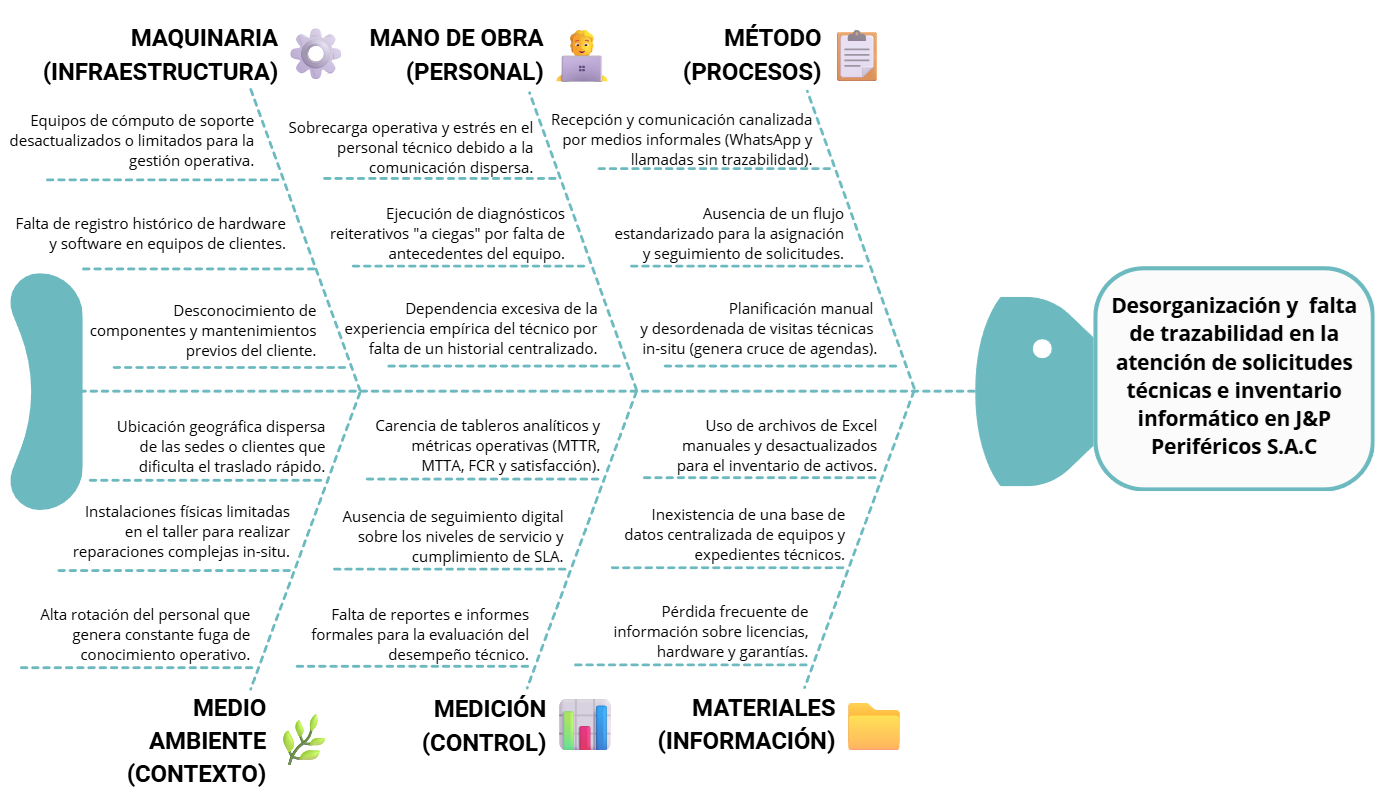
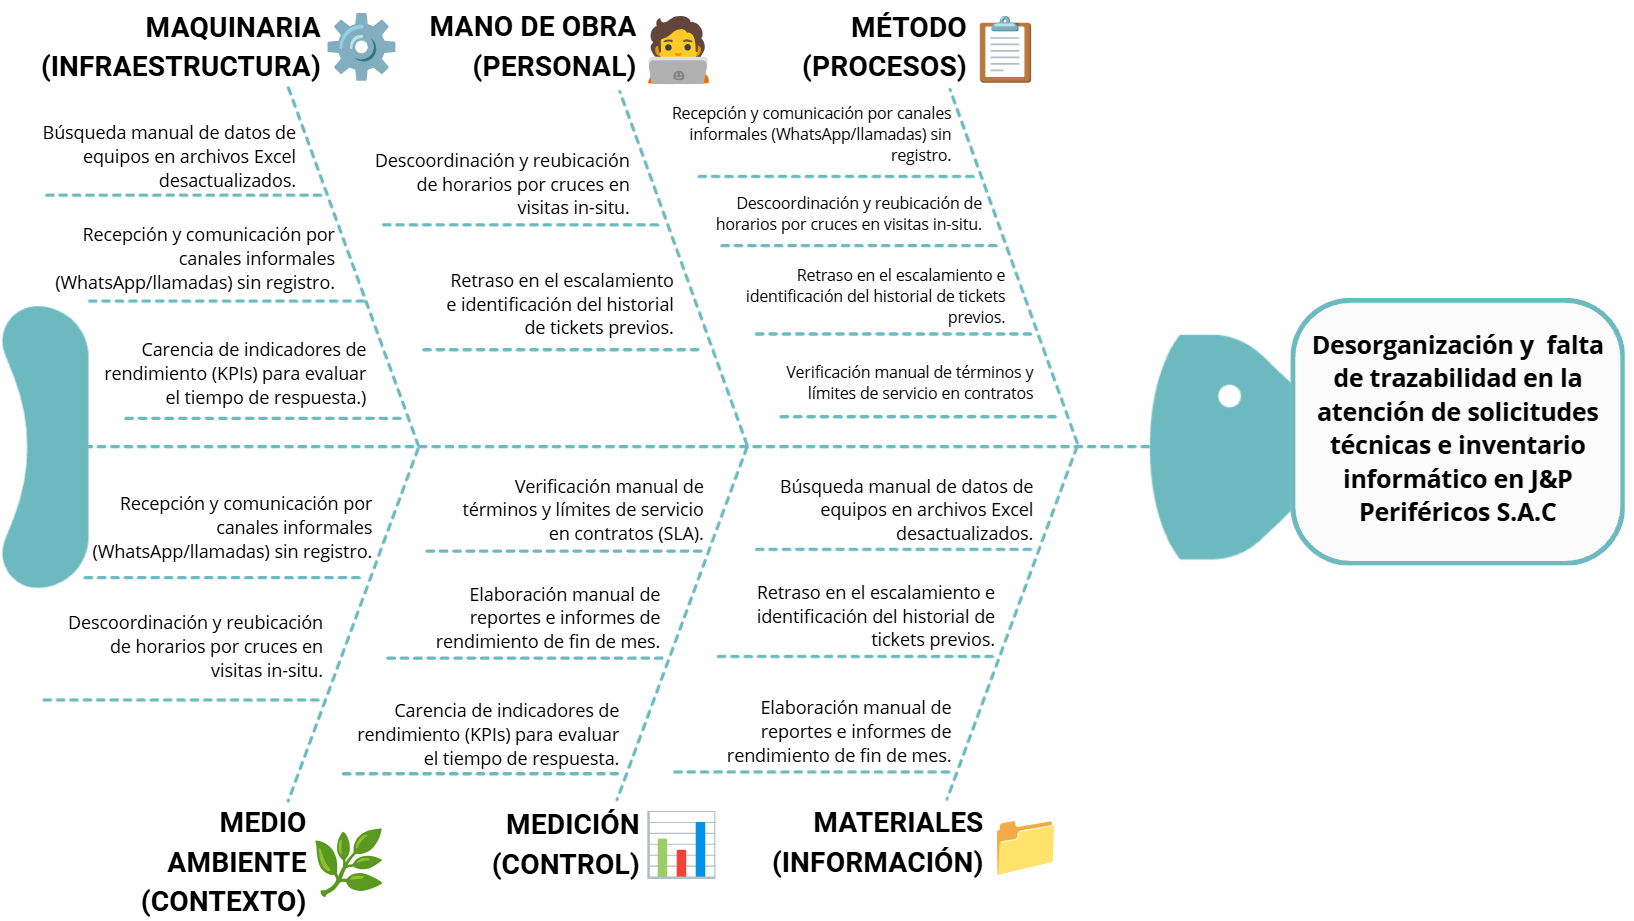
Correcciones de las observaciones hechas

diff --git a/Estructura/capitulo3.tex b/Estructura/capitulo3.tex
@@ -162,40 +162,7 @@ De acuerdo con la valoración obtenida en las encuestas, se procesaron los datos
 
 \subsection{Análisis cualitativo y cuantitativo}
 
-\subsubsection{Causa CA2: Recepción y comunicación por canales informales (WhatsApp/llamadas) sin registro}
-\noindent \textbf{Análisis cualitativo:} La atención de incidentes mediante mensajes de WhatsApp y llamadas telefónicas directas impide registrar de forma oficial el requerimiento, provocando que las solicitudes queden traspapeladas o dispersas en los dispositivos móviles del personal. Esto genera confusión sobre qué técnico atendió a cada cliente, duplicidad en la comunicación y falta de seguimiento formal, ocasionando demoras considerables en el inicio de la atención y una constante pérdida de la trazabilidad operativa.	\\
-
-\noindent \textbf{Análisis cuantitativo:} 
-Durante el período de mayo a septiembre de 2026 se registraron 149 solicitudes gestionadas de manera informal, lo que representa un promedio mensual del 38\% del total de atenciones. Cada atención informal genera un tiempo improductivo promedio de 30 minutos por la falta de unificación de canales. Considerando una plantilla de 3 técnicos operativos con un costo hora-hombre valorizado en S/. 25.00, las horas perdidas acumuladas ascienden a aproximadamente 74.5 horas por semestralidad, lo que se traduce en una \textbf{pérdida económica operativa estimada de S/. 1,862.50 semestrales} solo por ineficiencia en la recepción de solicitudes.
-
-\begin{table}[H]
-\small
-\renewcommand{\arraystretch}{1.15}
-\centering
-\caption{Análisis cuantitativo y económico de solicitudes por canales informales (Causa 1)}
-\label{tab:cuantitativo_causa1}
-\vspace{0.4em}
-
-\begin{tabularx}{\linewidth}{X >{\centering\arraybackslash}p{2.8cm} >{\centering\arraybackslash}p{2.8cm} >{\centering\arraybackslash}p{1.8cm} >{\centering\arraybackslash}p{2.2cm}}
-\hline
-\textbf{Mes} & \textbf{Solicitudes informales} & \textbf{Total atenciones} & \textbf{Porcentaje} & \textbf{Pérdida estimada (S/.)} \\
-\hline
-May-26 & 26 & 70 & 37\% & S/. 325.00 \\
-Jun-26 & 32 & 85 & 38\% & S/. 400.00 \\
-Jul-26 & 37 & 95 & 39\% & S/. 462.50 \\
-Aug-26 & 24 & 65 & 37\% & S/. 300.00 \\
-Sep-26 & 30 & 80 & 38\% & S/. 375.00 \\
-\hline
-\textbf{Total} & \textbf{149} & \textbf{395} & \textbf{38\% (Prom.)} & \textbf{S/. 1,862.50} \\
-\hline
-\end{tabularx}
-
-\vspace{0.3em}
-\raggedright
-{\small \textit{Nota.} Consolidado mensual de incidencia e impacto económico por canales informales.}
-\end{table}
-
-\vspace{0.4cm}
+\subsection{Análisis cualitativo y cuantitativo}
 
 \subsubsection{Causa CA1: Búsqueda manual de datos de equipos en archivos Excel desactualizados}
 \noindent \textbf{Análisis cualitativo:} El inventario de activos TI y el historial de mantenimiento de los equipos de cómputo por cliente se administran mediante hojas de cálculo en Excel. Al no estar centralizada ni integrada con las solicitudes de atención, los técnicos deben realizar búsquedas manuales de especificaciones, garantías y mantenimientos previos antes o durante cada atención. Esto genera pérdida de tiempo operativo, errores en los diagnósticos y riesgo constante de trabajar con información obsoleta o duplicada. \\
@@ -232,6 +199,41 @@ Sep-26 & 21 & 80 & 26\% & S/. 218.70 \\
 
 \vspace{0.4cm}
 
+\subsubsection{Causa CA2: Recepción y comunicación por canales informales (WhatsApp/llamadas) sin registro}
+\noindent \textbf{Análisis cualitativo:} La atención de incidentes mediante mensajes de WhatsApp y llamadas telefónicas directas impide registrar de forma oficial el requerimiento, provocando que las solicitudes queden traspapeladas o dispersas en los dispositivos móviles del personal. Esto genera confusión sobre qué técnico atendió a cada cliente, duplicidad en la comunicación y falta de seguimiento formal, ocasionando demoras considerables en el inicio de la atención y una constante pérdida de la trazabilidad operativa.	\\
+
+\noindent \textbf{Análisis cuantitativo:} 
+Durante el período de mayo a septiembre de 2026 se registraron 149 solicitudes gestionadas de manera informal, lo que representa un promedio mensual del 38\% del total de atenciones. Cada atención informal genera un tiempo improductivo promedio de 30 minutos por la falta de unificación de canales. Considerando una plantilla de 3 técnicos operativos con un costo hora-hombre valorizado en S/. 25.00, las horas perdidas acumuladas ascienden a aproximadamente 74.5 horas por semestralidad, lo que se traduce en una \textbf{pérdida económica operativa estimada de S/. 1,862.50 semestrales} solo por ineficiencia en la recepción de solicitudes.
+
+\begin{table}[H]
+\small
+\renewcommand{\arraystretch}{1.15}
+\centering
+\caption{Análisis cuantitativo y económico de solicitudes por canales informales (Causa 1)}
+\label{tab:cuantitativo_causa1}
+\vspace{0.4em}
+
+\begin{tabularx}{\linewidth}{X >{\centering\arraybackslash}p{2.8cm} >{\centering\arraybackslash}p{2.8cm} >{\centering\arraybackslash}p{1.8cm} >{\centering\arraybackslash}p{2.2cm}}
+\hline
+\textbf{Mes} & \textbf{Solicitudes informales} & \textbf{Total atenciones} & \textbf{Porcentaje} & \textbf{Pérdida estimada (S/.)} \\
+\hline
+May-26 & 26 & 70 & 37\% & S/. 325.00 \\
+Jun-26 & 32 & 85 & 38\% & S/. 400.00 \\
+Jul-26 & 37 & 95 & 39\% & S/. 462.50 \\
+Aug-26 & 24 & 65 & 37\% & S/. 300.00 \\
+Sep-26 & 30 & 80 & 38\% & S/. 375.00 \\
+\hline
+\textbf{Total} & \textbf{149} & \textbf{395} & \textbf{38\% (Prom.)} & \textbf{S/. 1,862.50} \\
+\hline
+\end{tabularx}
+
+\vspace{0.3em}
+\raggedright
+{\small \textit{Nota.} Consolidado mensual de incidencia e impacto económico por canales informales.}
+\end{table}
+
+\vspace{0.4cm}
+
 \subsubsection{Causa CA3: Descoordinación y reubicación de horarios por cruces en visitas in-situ}
 \noindent \textbf{Análisis cualitativo:} La programación de visitas presenciales y soporte técnico in-situ en las sedes de los clientes se gestiona de manera manual y sin un calendario centralizado de disponibilidad técnica. Esto provoca cruces de agenda entre los técnicos asignados, reprogramaciones de última hora, tiempos muertos por traslados no optimizados y descoordinación con los horarios de atención de los clientes, lo que afecta la puntualidad y genera insatisfacción en el servicio. \\
 
@@ -264,3 +266,38 @@ Sep-26 & 16 & 80 & 20\% & S/. 133.30 \\
 \raggedright
 {\small \textit{Nota.} Distribución mensual de incidencias y pérdida económica por descoordinación en agenda presencial.}
 \end{table}
+
+\subsubsection{Causa CA4: Retraso en el escalamiento e identificación del historial de tickets previos}
+
+\noindent \textbf{Análisis cualitativo:} La falta de un flujo estandarizado para la asignación, seguimiento y escalamiento de tickets impide identificar el historial previo de cada incidencia, generando retrasos en la resolución y pérdida de trazabilidad operativa. Al no existir un registro centralizado de las atenciones anteriores, los técnicos deben re-diagnosticar casos ya atendidos, duplicando esfuerzos y prolongando los tiempos de resolución. \
+
+\noindent \textbf{Análisis cuantitativo:}
+Esta causa obtuvo un puntaje de 37 en la encuesta de priorización de causas raíz (CA4, tabla \ref{tab:encuesta_causas}), lo que la ubica como la cuarta causa en impacto dentro del diagnóstico del área de soporte técnico de J\&P Periféricos S.A.C.
+
+\vspace{0.4cm}
+
+\subsubsection{Causa CA5: Verificación manual de términos y límites de servicio en contratos (SLA)}
+
+\noindent \textbf{Análisis cualitativo:} La verificación de la vigencia de los planes contratados, la cantidad máxima de equipos cubiertos y los tiempos máximos de atención comprometidos se realiza de forma manual y fragmentada, dificultando priorizar oportunamente las incidencias críticas y comprometiendo el cumplimiento de los Acuerdos de Nivel de Servicio (SLA). Esta carencia de control automatizado provoca que se brinde soporte a activos fuera de cobertura y afecte la formalidad del servicio. \
+
+\noindent \textbf{Análisis cuantitativo:}
+Esta causa obtuvo un puntaje de 34 en la encuesta de priorización de causas raíz (CA5, tabla \ref{tab:encuesta_causas}), ubicándose como la quinta causa en impacto dentro del diagnóstico del área de soporte técnico.
+
+\vspace{0.4cm}
+
+\subsubsection{Causa CA6: Elaboración manual de reportes e informes de rendimiento de fin de mes}
+
+\noindent \textbf{Análisis cualitativo:} La elaboración manual de reportes e informes de rendimiento de fin de mes sobrecarga la operación del área técnica y limita la toma de decisiones basada en datos. Al no existir tableros analíticos automatizados, el personal técnico debe consolidar manualmente la información de atenciones, tiempos y cumplimiento de SLA, consumiendo tiempo que podría destinarse a la atención de incidencias. \
+
+\noindent \textbf{Análisis cuantitativo:}
+Esta causa obtuvo un puntaje de 29 en la encuesta de priorización de causas raíz (CA6, tabla \ref{tab:encuesta_causas}), ubicándose como la sexta causa en impacto dentro del diagnóstico del área de soporte técnico.
+
+\vspace{0.4cm}
+
+\subsubsection{Causa CA7: Carencia de indicadores de rendimiento (KPIs) para evaluar el tiempo de respuesta}
+
+\noindent \textbf{Análisis cualitativo:} La falta de un sistema con backend robusto y modular que centralice las reglas de negocio impide la monitorización en tiempo real de los indicadores de rendimiento y la validación automatizada de contratos, sobrecargando la operación y comprometiendo la calidad del servicio técnico. Sin KPIs como MTTA, MTTR, FCR y CSAT, la gerencia no puede evaluar objetivamente el desempeño del equipo técnico ni el cumplimiento de los SLA. \
+
+\noindent \textbf{Análisis cuantitativo:}
+Esta causa obtuvo un puntaje de 23 en la encuesta de priorización de causas raíz (CA7, tabla \ref{tab:encuesta_causas}), ubicándose como la séptima causa en impacto dentro del diagnóstico del área de soporte técnico.
+

diff --git a/Estructura/capitulo6.tex b/Estructura/capitulo6.tex
@@ -19,7 +19,7 @@ Para evaluar la rentabilidad financiera y la viabilidad económica del proyecto 
 
 \subsection{Identificación de la Pérdida Económica}
 
-Tal como se determinó en el análisis cuantitativo del Capítulo 3.4, la empresa J\&P Periféricos S.A.C. venía experimentando pérdidas económicas recurrentes a causa de las deficiencias operativas en el área de soporte técnico. Para cuantificar este impacto, se desglosan las tres causas principales identificadas en la Tabla 1 y su estimación económica mensual y anual:
+Tal como se determinó en el análisis cuantitativo del Capítulo 3 (sección 3.4.3), la empresa J\&P Periféricos S.A.C. venía experimentando pérdidas económicas recurrentes a causa de las deficiencias operativas en el área de soporte técnico. Para cuantificar este impacto, se desglosan las tres causas principales identificadas en la Tabla 1 y su estimación económica mensual y anual:
 
 \vspace{0.3cm}
 
@@ -47,17 +47,17 @@ Tal como se determinó en el análisis cuantitativo del Capítulo 3.4, la empres
 \multicolumn{4}{@{}p{\textwidth}}{\small \textit{Nota.} Lista de causas principales identificadas y su respectiva estimación de pérdida económica mensual en el área de soporte técnico.} \\
 \endlastfoot
 
-\textbf{Causa 1:} Recepción y comunicación por canales informales (WhatsApp / Llamadas). & 
-- Tiempos improductivos.\newline - Solicitudes traspapeladas por falta de un canal centralizado. & 
-Operativa / Horas-Hombre & 
-S/ 372.50 \\[10pt]
-
-\textbf{Causa 2:} Búsqueda manual de datos de equipos en archivos Excel desactualizados. & 
+\textbf{CA1:} Búsqueda manual de datos de equipos en archivos Excel desactualizados. & 
 - Demoras en la localización de historiales.\newline - Falta de expedientes técnicos de equipos. & 
 Operativa / Horas-Hombre & 
 S/ 214.58 \\[10pt]
 
-\textbf{Causa 3:} Descoordinación y reubicación de horarios por cruces en visitas in-situ. & 
+\textbf{CA2:} Recepción y comunicación por canales informales (WhatsApp / Llamadas). & 
+- Tiempos improductivos.\newline - Solicitudes traspapeladas por falta de un canal centralizado. & 
+Operativa / Horas-Hombre & 
+S/ 372.50 \\[10pt]
+
+\textbf{CA3:} Descoordinación y reubicación de horarios por cruces en visitas in-situ. & 
 - Tiempos muertos y reprocesos.\newline - Traslados duplicados en atenciones presenciales. & 
 Operativa / Logística & 
 S/ 135.00 \\ 
@@ -95,9 +95,9 @@ Proyectando las pérdidas operativas mensuales al período de un año (12 meses)
 \multicolumn{3}{@{}p{\textwidth}}{\small \textit{Nota.} Proyección de las pérdidas económicas anuales derivadas de las ineficiencias operativas del área de soporte técnico.} \\
 \endlastfoot
 
-Causa 1: Recepción por canales informales sin registro. & 12 meses & S/ 4,470.00 \\
-Causa 2: Búsqueda manual de activos en archivos Excel. & 12 meses & S/ 2,574.96 \\
-Causa 3: Descoordinación y cruces en visitas presenciales in-situ. & 12 meses & S/ 1,620.00 \\ 
+CA1: Búsqueda manual de activos en archivos Excel. & 12 meses & S/ 2,574.96 \\
+CA2: Recepción por canales informales sin registro. & 12 meses & S/ 4,470.00 \\
+CA3: Descoordinación y cruces en visitas presenciales in-situ. & 12 meses & S/ 1,620.00 \\ 
 \midrule
 \textbf{Total General de Pérdida Económica Anual} & \textbf{12 meses} & \textbf{S/ 8,664.96} \\
 \end{longtable}

diff --git a/Estructura/capitulo4.tex b/Estructura/capitulo4.tex
@@ -164,6 +164,7 @@ Esta fase inicial comprende la recopilación de especificaciones, el diseño con
 \multicolumn{3}{@{}p{\textwidth}}{\small \textit{Nota.} Cronograma y entregables detallados para la fase de análisis y modelado.} \\
 \endlastfoot
 
+TR00 - Planificación y gestión del proyecto & Planificación, ceremonias de sprint, revisiones y documentación transversal. & 14 días \\
 TR01 - Alcance y Problemática & Definición del alcance del proyecto y problemática de trazabilidad TI. & 4 días \\
 TR02 - Modelado de Negocio & Modelado del flujo de negocio y matriz de permisos por rol. & 5 días \\
 TR03 - Requisitos & Redacción de especificación de Requisitos Funcionales y No Funcionales. & 5 días \\
@@ -172,6 +173,7 @@ TR05 - Análisis Hoja de Vida & Análisis de requerimientos para el módulo de H
 TR06 - Matriz CRUD & Elaboración de matriz CRUD de accesos y permisos por rol. & 4 días \\
 TR07 - Diagramas UML & Diseño de diagramas UML y especificaciones de Casos de Uso. & 6 días \\
 TR08 - Esquema Relacional & Creación del esquema relacional y enums en \texttt{schema.prisma}. & 4 días \\
+\textbf{Total Fase 1} & & \textbf{50 días} \\
 \end{longtable}
 \endgroup
 
@@ -268,6 +270,7 @@ TR14 - Gestión SLA & Implementación de gestión backend de Planes y Acuerdos d
 TR15 - Lógica Inventario ITAM & Desarrollo de lógica backend de Inventario ITAM y Hoja de Vida de Activos. & 6 días \\
 TR16 - Control de Software & Implementación de gestión backend de Software y Control de Licencias. & 5 días \\
 TR17 - Ciclo de Vida Ticket & Desarrollo del ciclo de vida del Ticket (estado pendiente y asignación). & 6 días \\
+\textbf{Total Fase 2} & & \textbf{48 días} \\
 \end{longtable}
 \endgroup
 
@@ -357,6 +360,7 @@ Esta fase comprende el desarrollo de la lógica compleja de negocio, integrando 
 
 TR18 - Citas Presenciales & Desarrollo del backend de derivación y gestión de Citas Presenciales. & 5 días \\
 TR19 - WebSockets y Redis & Implementación de WebSockets con Redis para Chat y Endpoints de Dashboard. & 6 días \\
+\textbf{Total Fase 3} & & \textbf{11 días} \\
 \end{longtable}
 \endgroup
 
@@ -426,6 +430,7 @@ TR20 - Configuración UI & Configuración de estructura modular frontend, Tailwi
 TR21 - Pantallas Base Frontend & Desarrollo de pantallas frontend de Login, Usuarios y Zonas con \textit{shadcn/ui}. & 6 días \\
 TR22 - Jerarquía Organizacional & Desarrollo de interfaces modulares para la Jerarquía Organizacional. & 5 días \\
 TR23 - Módulos Operativos & Pantallas de Inventario ITAM, Tickets, Cronograma de Citas, Chat y Dashboard. & 7 días \\
+\textbf{Total Fase 4} & & \textbf{22 días} \\
 \end{longtable}
 \endgroup
 
@@ -517,6 +522,7 @@ TR24 - Documentación Swagger & Documentación de endpoints y DTOs del Backend u
 TR25 - Pruebas Unitarias Jest & Implementación y ejecución de Pruebas Unitarias en el Backend con Jest. & 5 días \\
 TR26 - Módulo de Exportación & Desarrollo de módulo de exportación de documentos PDF. & 5 días \\
 TR27 - Despliegue en Producción & Subida de base de datos, backend y frontend al servidor de producción. & 4 días \\
+\textbf{Total Fase 5} & & \textbf{18 días} \\
 \end{longtable}
 \endgroup
 

diff --git a/main.tex b/main.tex
@@ -3,6 +3,7 @@
 
 % Idioma y Tipografía
 \usepackage[spanish, es-tabla]{babel}
+
 \usepackage{mathptmx} % Times New Roman compatible con pdfLaTeX
 
 % Márgenes Estándar APA (2.54 cm / 1 pulgada)

diff --git a/docs/ishikawa-pareto-actualizacion.md b/docs/ishikawa-pareto-actualizacion.md
@@ -1,0 +1,61 @@
+# Actualización de imágenes: Ishikawa y Pareto
+
+La lista maestra de causas (CA1–CA7) es idéntica en `Estructura/capitulo2.tex` y `Estructura/capitulo3.tex`. Usa estos datos para actualizar visualmente `img/diagrama_ishikawa.png`, `img/diagrama_pareto_por_fenomeno.png` e `img/diagrama_problema.png`.
+
+## 1) Diagrama de Ishikawa (`img/diagrama_ishikawa.png`) — ramas 6M con espinas
+
+### Métodos (procesos y procedimientos)
+- Espina: Recepción y comunicación por canales informales (WhatsApp/llamadas) sin registro. (CA2)
+- Espina: Descoordinación y reubicación de horarios por cruces en visitas in-situ. (CA3)
+- Espina: Retraso en el escalamiento e identificación del historial de tickets previos. (CA4)
+- Espina: Verificación manual de términos y límites de servicio en contratos (SLA). (CA5)
+
+### Mano de Obra (personal y coordinación)
+- Espina: Descoordinación y reubicación de horarios por cruces en visitas in-situ. (CA3)
+- Espina: Retraso en el escalamiento e identificación del historial de tickets previos. (CA4)
+
+### Maquinaria/Tecnología (sistemas y herramientas)
+- Espina: Búsqueda manual de datos de equipos en archivos Excel desactualizados. (CA1)
+- Espina: Recepción y comunicación por canales informales (WhatsApp/llamadas) sin registro. (CA2)
+- Espina: Carencia de indicadores de rendimiento (KPIs) para evaluar el tiempo de respuesta. (CA7)
+
+### Materiales/Información (datos y registros)
+- Espina: Búsqueda manual de datos de equipos en archivos Excel desactualizados. (CA1)
+- Espina: Retraso en el escalamiento e identificación del historial de tickets previos. (CA4)
+- Espina: Elaboración manual de reportes e informes de rendimiento de fin de mes. (CA6)
+
+### Medio Ambiente (entorno organizacional y de servicio)
+- Espina: Recepción y comunicación por canales informales (WhatsApp/llamadas) sin registro. (CA2)
+- Espina: Descoordinación y reubicación de horarios por cruces en visitas in-situ. (CA3)
+
+### Medición (métricas e indicadores)
+- Espina: Verificación manual de términos y límites de servicio en contratos (SLA). (CA5)
+- Espina: Elaboración manual de reportes e informes de rendimiento de fin de mes. (CA6)
+- Espina: Carencia de indicadores de rendimiento (KPIs) para evaluar el tiempo de respuesta. (CA7)
+
+## 2) Valores para `img/diagrama_pareto_por_fenomeno.png` (y `img/diagrama_problema.png`)
+
+Base: tabla `tab:encuesta_causas` (Total General = 244). Orden descendente por puntaje.
+
+| Orden | Código CA | Causa | Frecuencia (puntaje) | % individual | % acumulado |
+|---|---|---|---|---|---|
+| 1 | CA1 | Búsqueda manual de datos de equipos en archivos Excel desactualizados. | 43 | 17,62 % | 17,62 % |
+| 2 | CA2 | Recepción y comunicación por canales informales (WhatsApp/llamadas) sin registro. | 39 | 15,98 % | 33,61 % |
+| 3 | CA3 | Descoordinación y reubicación de horarios por cruces en visitas in-situ. | 39 | 15,98 % | 49,59 % |
+| 4 | CA4 | Retraso en el escalamiento e identificación del historial de tickets previos. | 37 | 15,16 % | 64,75 % |
+| 5 | CA5 | Verificación manual de términos y límites de servicio en contratos (SLA). | 34 | 13,93 % | 78,69 % |
+| 6 | CA6 | Elaboración manual de reportes e informes de rendimiento de fin de mes. | 29 | 11,89 % | 90,57 % |
+| 7 | CA7 | Carencia de indicadores de rendimiento (KPIs) para evaluar el tiempo de respuesta. | 23 | 9,43 % | 100,00 % |
+| — | — | **Total** | **244** | **100,00 %** | — |
+
+## 3) Lista maestra de causas (CA1–CA7) — idéntica en Cap. 2 y Cap. 3
+
+| Código | Enunciado unificado |
+|---|---|
+| CA1 | Búsqueda manual de datos de equipos en archivos Excel desactualizados. |
+| CA2 | Recepción y comunicación por canales informales (WhatsApp/llamadas) sin registro. |
+| CA3 | Descoordinación y reubicación de horarios por cruces en visitas in-situ. |
+| CA4 | Retraso en el escalamiento e identificación del historial de tickets previos. |
+| CA5 | Verificación manual de términos y límites de servicio en contratos (SLA). |
+| CA6 | Elaboración manual de reportes e informes de rendimiento de fin de mes. |
+| CA7 | Carencia de indicadores de rendimiento (KPIs) para evaluar el tiempo de respuesta. |
